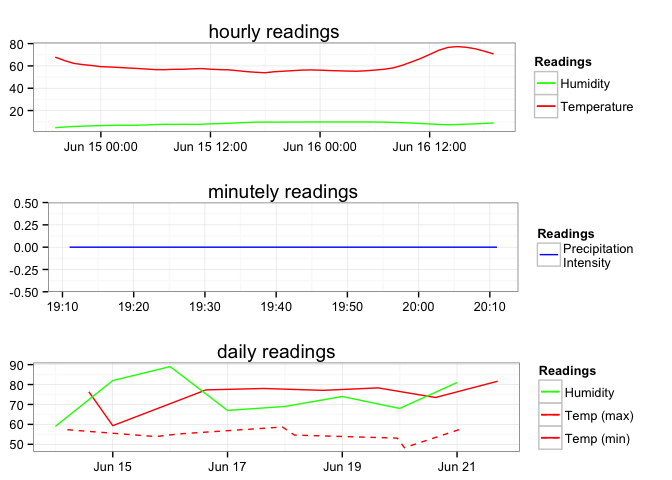
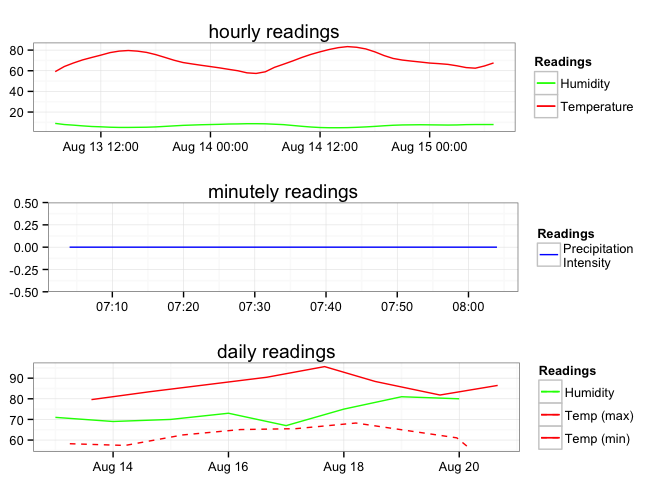
... parameter

diff --git a/README.md b/README.md
@@ -20,6 +20,7 @@ There have been several major enhancements to the way this package works with th
 
 ### News
 
+-   Version 2.1.0 released - added `httr::GET` pass-through `...` parameter to salient functions
 -   Version 2.0.0 released - complete overhaul of the package
 -   Version 2.0.1 released - Did a check `--as-cran` and fixed *many* things invisible to the users of this package
 
@@ -49,22 +50,22 @@ now <- get_current_forecast(43.2672, -70.8617)
 print(now$hourly)
 ```
 
-    ## Source: local data frame [49 x 16]
+    ## Source: local data frame [49 x 15]
     ## 
-    ##                   time       summary                icon precipIntensity precipProbability temperature
-    ## 1  2015-06-14 19:00:00         Clear           clear-day          0.0000              0.00       67.91
-    ## 2  2015-06-14 20:00:00 Partly Cloudy   partly-cloudy-day          0.0000              0.00       64.85
-    ## 3  2015-06-14 21:00:00 Partly Cloudy partly-cloudy-night          0.0000              0.00       62.35
-    ## 4  2015-06-14 22:00:00 Partly Cloudy partly-cloudy-night          0.0000              0.00       61.18
-    ## 5  2015-06-14 23:00:00 Mostly Cloudy partly-cloudy-night          0.0000              0.00       60.37
-    ## 6  2015-06-15 00:00:00 Mostly Cloudy partly-cloudy-night          0.0000              0.00       59.34
-    ## 7  2015-06-15 01:00:00      Overcast              cloudy          0.0000              0.00       59.03
-    ## 8  2015-06-15 02:00:00      Overcast              cloudy          0.0000              0.00       58.60
-    ## 9  2015-06-15 03:00:00      Overcast              cloudy          0.0000              0.00       58.13
-    ## 10 2015-06-15 04:00:00      Overcast              cloudy          0.0037              0.08       57.72
-    ## ..                 ...           ...                 ...             ...               ...         ...
+    ##                   time       summary              icon precipIntensity precipProbability temperature
+    ## 1  2015-08-13 07:00:00         Clear         clear-day               0                 0       59.13
+    ## 2  2015-08-13 08:00:00         Clear         clear-day               0                 0       64.12
+    ## 3  2015-08-13 09:00:00         Clear         clear-day               0                 0       67.52
+    ## 4  2015-08-13 10:00:00         Clear         clear-day               0                 0       70.51
+    ## 5  2015-08-13 11:00:00         Clear         clear-day               0                 0       72.87
+    ## 6  2015-08-13 12:00:00         Clear         clear-day               0                 0       75.13
+    ## 7  2015-08-13 13:00:00         Clear         clear-day               0                 0       77.56
+    ## 8  2015-08-13 14:00:00 Partly Cloudy partly-cloudy-day               0                 0       79.03
+    ## 9  2015-08-13 15:00:00 Partly Cloudy partly-cloudy-day               0                 0       79.60
+    ## 10 2015-08-13 16:00:00 Partly Cloudy partly-cloudy-day               0                 0       79.01
+    ## ..                 ...           ...               ...             ...               ...         ...
     ## Variables not shown: apparentTemperature (dbl), dewPoint (dbl), humidity (dbl), windSpeed (dbl), windBearing (int),
-    ##   visibility (dbl), cloudCover (dbl), pressure (dbl), ozone (dbl), precipType (chr)
+    ##   visibility (dbl), cloudCover (dbl), pressure (dbl), ozone (dbl)
 
 ``` r
 then <- get_forecast_for(43.2672, -70.8617, "2013-05-06T12:00:00-0400")
@@ -84,7 +85,7 @@ print(then$daily)
 print(sprintf("You have used %s API calls.", then$`x-forecast-api-calls`))
 ```
 
-    ## [1] "You have used 70 API calls."
+    ## [1] "You have used 2 API calls."
 
 ``` r
 plot(now)
@@ -101,10 +102,13 @@ library(testthat)
 date()
 ```
 
-    ## [1] "Sun Jun 14 19:11:19 2015"
+    ## [1] "Thu Aug 13 07:04:27 2015"
 
 ``` r
 test_dir("tests/")
 ```
 
-    ## basic functionality : ..
+    ## testthat results ========================================================================================================
+    ## OK: 2 SKIPPED: 0 FAILED: 0
+    ## 
+    ## DONE
